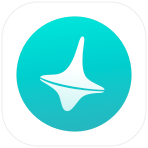
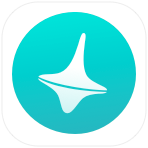
added coin assets, styled signup/login/reset pw pages, cleaned up header

diff --git a/app/assets/stylesheets/application.css.scss b/app/assets/stylesheets/application.css.scss
@@ -16,15 +16,7 @@
 @import 'normalize-rails';
 @import 'compass';
 @import 'foundation_and_overrides';
-
-$brand: #20d1cf;
-$white: #ffffff;
-$light-gray: #ebebeb;
-$lighter-gray: #fafafa;
-$light-gray-2: #d4d4d4;
-$medium-gray: #898989;
-$medium-gray-2: #9b9b9b;
-$dark-gray: #4a4a4a;
+@import 'mixins_and_variables';
 
 * {
   font-size: 1em;
@@ -32,6 +24,9 @@ $dark-gray: #4a4a4a;
   font-family: "proxima-nova",sans-serif;
   color: $dark-gray;
   font-weight: 300;
+  @media only screen and (max-width: $small-screen) {
+   font-size: .95em;
+  }
 }
 
 h1,h2,h3,h4,h5,h6 { font-family: "proxima-nova",sans-serif; color: $dark-gray; }
@@ -40,10 +35,10 @@ section {
   @include grid-row();
 
   article {
-    @include grid-column(
-      $columns:8,
-      $center:true
-    );
+    @extend .large-8, .small-12, .columns, .small-centered;
+  }
+  article.small {
+    @extend .large-5, .small-11, .columns, .small-centered;
   }
 
   .announcement {
@@ -101,7 +96,7 @@ section {
     }
 
     h2 {
-      font-size: 22px;
+      font-size: 1.375em;
       line-height: 40px;
       font-weight: 400;
       color: $light-gray-2;
@@ -139,8 +134,8 @@ section {
         background: image-url('filter.svg') no-repeat top left;
       }
       &.currency-type {
-        background: image-url('currencies/bitcoin-small@2x.png') no-repeat top left;
-        background-size: 20px;
+        background: image-url('currencies/all-currencies@2x.png') no-repeat top left;
+        background-size: 22px;
         float: right;
       }
     }
@@ -149,12 +144,8 @@ section {
 
   .list-address {
     border: 0;
+    @extend .large-8, .small-12, .columns, .small-centered;
 
-    @include grid-column(
-      $columns:8,
-      $center:true,
-      $collapse:true
-    );
     tr { background: none; }
     td {
       padding: 15px 14px;
@@ -184,3 +175,4 @@ section {
 
 @import 'header';
 @import 'footer';
+@import 'buttons_and_forms';

diff --git a/app/assets/stylesheets/header.scss b/app/assets/stylesheets/header.scss
@@ -9,6 +9,7 @@
 }
 header {
   color: $white;
+  @include grid-row();
 
   a {
     color: $white;
@@ -27,33 +28,36 @@ header {
   }
 
   #logo {
-    height: 40px;
-    width: 36px;
-    margin: 14px 40px 0 0;
-    background: image-url('logo.svg') no-repeat;
+    height: 36px;
+    width: 32px;
+    margin: 16px .95em;
+    background: image-url('logo@2x.png') no-repeat;
     background-size: contain;
     float: left;
+    display: block;
+    @media only screen and (max-width: $small-screen) {
+     float: none;
+     margin: 16px auto 0;
+    }
   }
 
   nav {
-    @include grid-column(8);
+    @media only screen and (max-width: $small-screen) {
+     display: none;
+    }
 
     ul {
-
       li {
-        display: inline;
-        margin-right: 60px;
+        float: left;
+        margin: 0 1em;
+        &.user {
+          text-align: right;
+          float: right;
+        }
       }
     }
   }
 
-  .user {
-    text-align: right;
-    @include grid-column(
-      $columns:2,
-      $float:right
-    );
-  }
   .account-menu {
     display: none;
   }

diff --git a/app/assets/stylesheets/buttons_and_forms.scss b/app/assets/stylesheets/buttons_and_forms.scss
@@ -1,0 +1,34 @@
+/*
+ * Buttons and Forms
+ */
+
+label { display: inline-block; }
+
+input[type=text], input[type=password], input[type=email], input[type=tel] {
+  @include border-radius(4px);
+  @include box-shadow(none);
+  padding: 6px 8px 4px;
+  font-size: 1em;
+  border: 1px solid $light-gray-2;
+  &:focus {
+    border:1px solid $brand;
+    box-shadow: 0 0 3px tint($brand, 80%);
+  }
+}
+
+input[type=submit] {
+  @include border-radius(40px);
+  @include box-shadow(none);
+  border: none;
+  padding: 10px 30px;
+  font-size: 1em;
+  font-weight: 600;
+  background: $brand;
+  color: $white;
+  @include transition(all .2s);
+
+  &:hover,
+  &:focus {
+    background: darken($brand, 5%);
+  }
+}

diff --git a/app/assets/stylesheets/footer.scss b/app/assets/stylesheets/footer.scss
@@ -5,7 +5,7 @@
 .footer-bg {
   border-top: 1px solid $light-gray;
   padding-top: 5px;
-  margin-top: 30px;
+  margin-top: 120px;
 }
 
 footer {
@@ -21,17 +21,11 @@ footer {
   p {
     color: $medium-gray;
     font-size: .8em;
-    @include grid-column(
-      $columns:4,
-      $push:2
-    );
+    @extend .large-4, .small-12, .push-2, .columns;
   }
 
   nav {
-    @include grid-column(
-      $columns:4,
-      $push:2
-    );
+    @extend .large-4, .small-12, .push-2, .columns;
 
     ul {
       list-style: none;

diff --git a/app/assets/stylesheets/mixins_and_variables.scss b/app/assets/stylesheets/mixins_and_variables.scss
@@ -1,0 +1,16 @@
+/*
+ * Variables
+ */
+
+$brand: #20d1cf;
+$white: #ffffff;
+$light-gray: #ebebeb;
+$lighter-gray: #fafafa;
+$light-gray-2: #d4d4d4;
+$medium-gray: #898989;
+$medium-gray-2: #9b9b9b;
+$dark-gray: #4a4a4a;
+
+/*
+ * Mixins
+ */

diff --git a/app/assets/stylesheets/foundation_and_overrides.scss b/app/assets/stylesheets/foundation_and_overrides.scss
@@ -125,7 +125,7 @@ $default-float: left;
 
 // Media Queries
 
-// $small-screen: 768px;
+$small-screen: 600px;
 // $medium-screen: 1280px;
 // $large-screen: 1440px;
 
